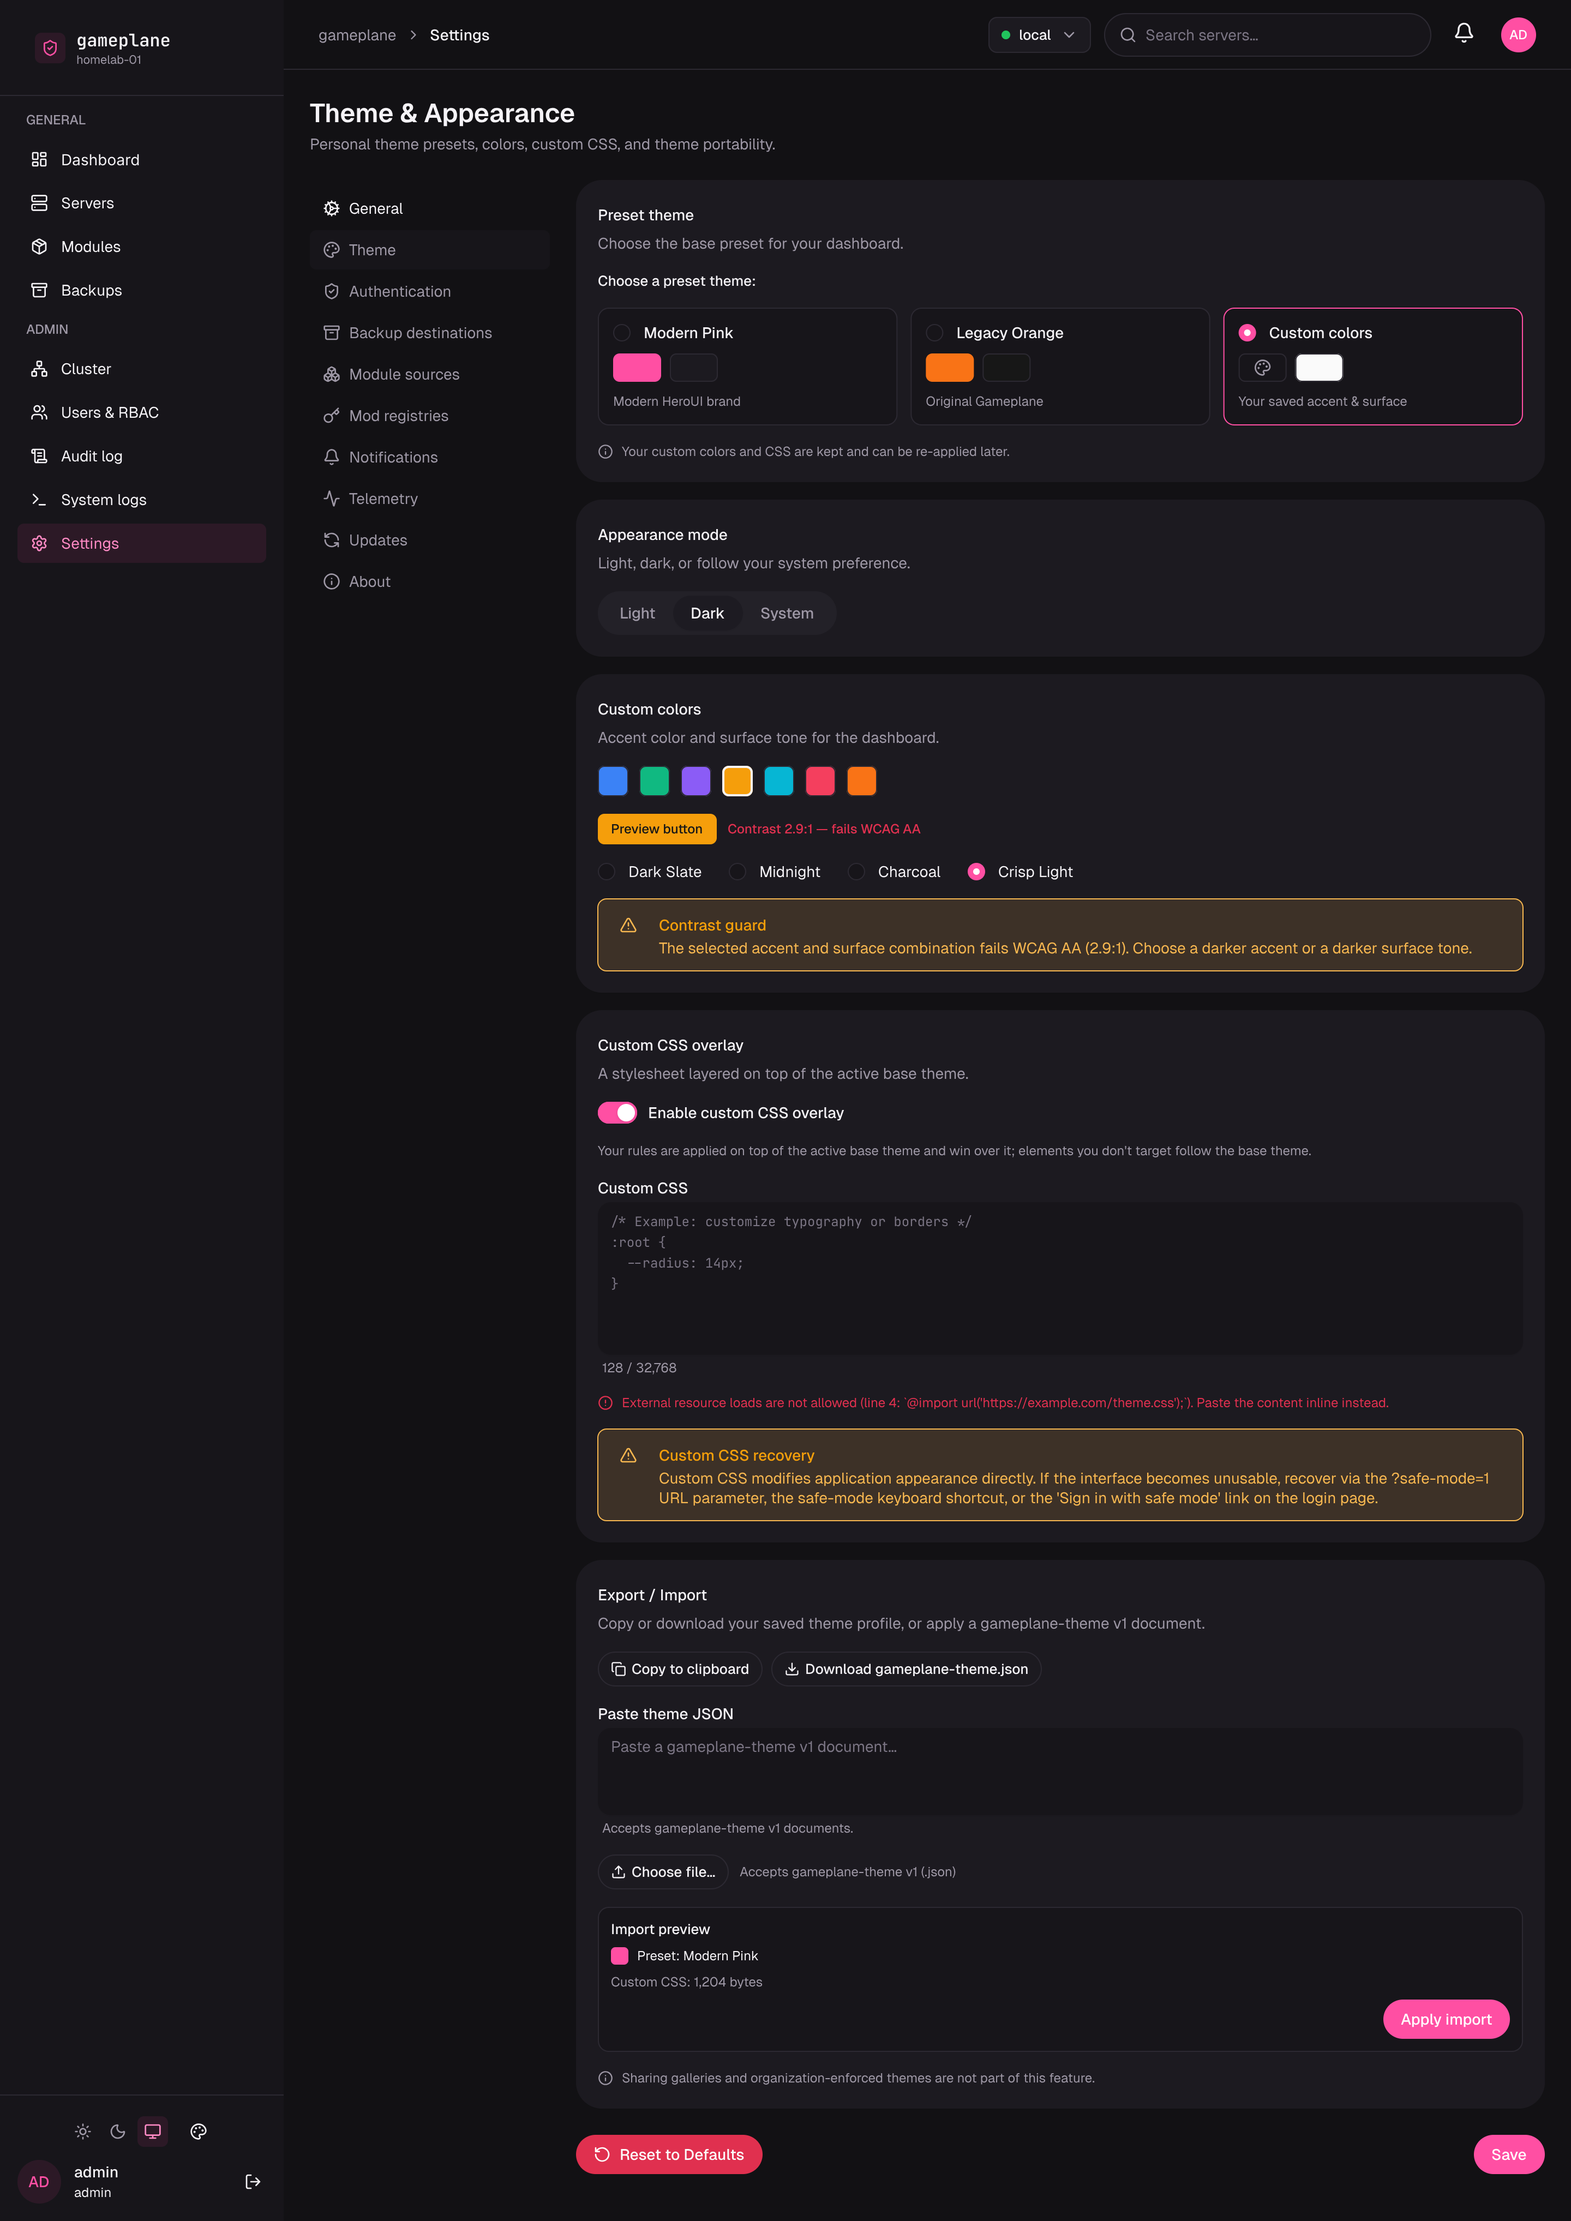
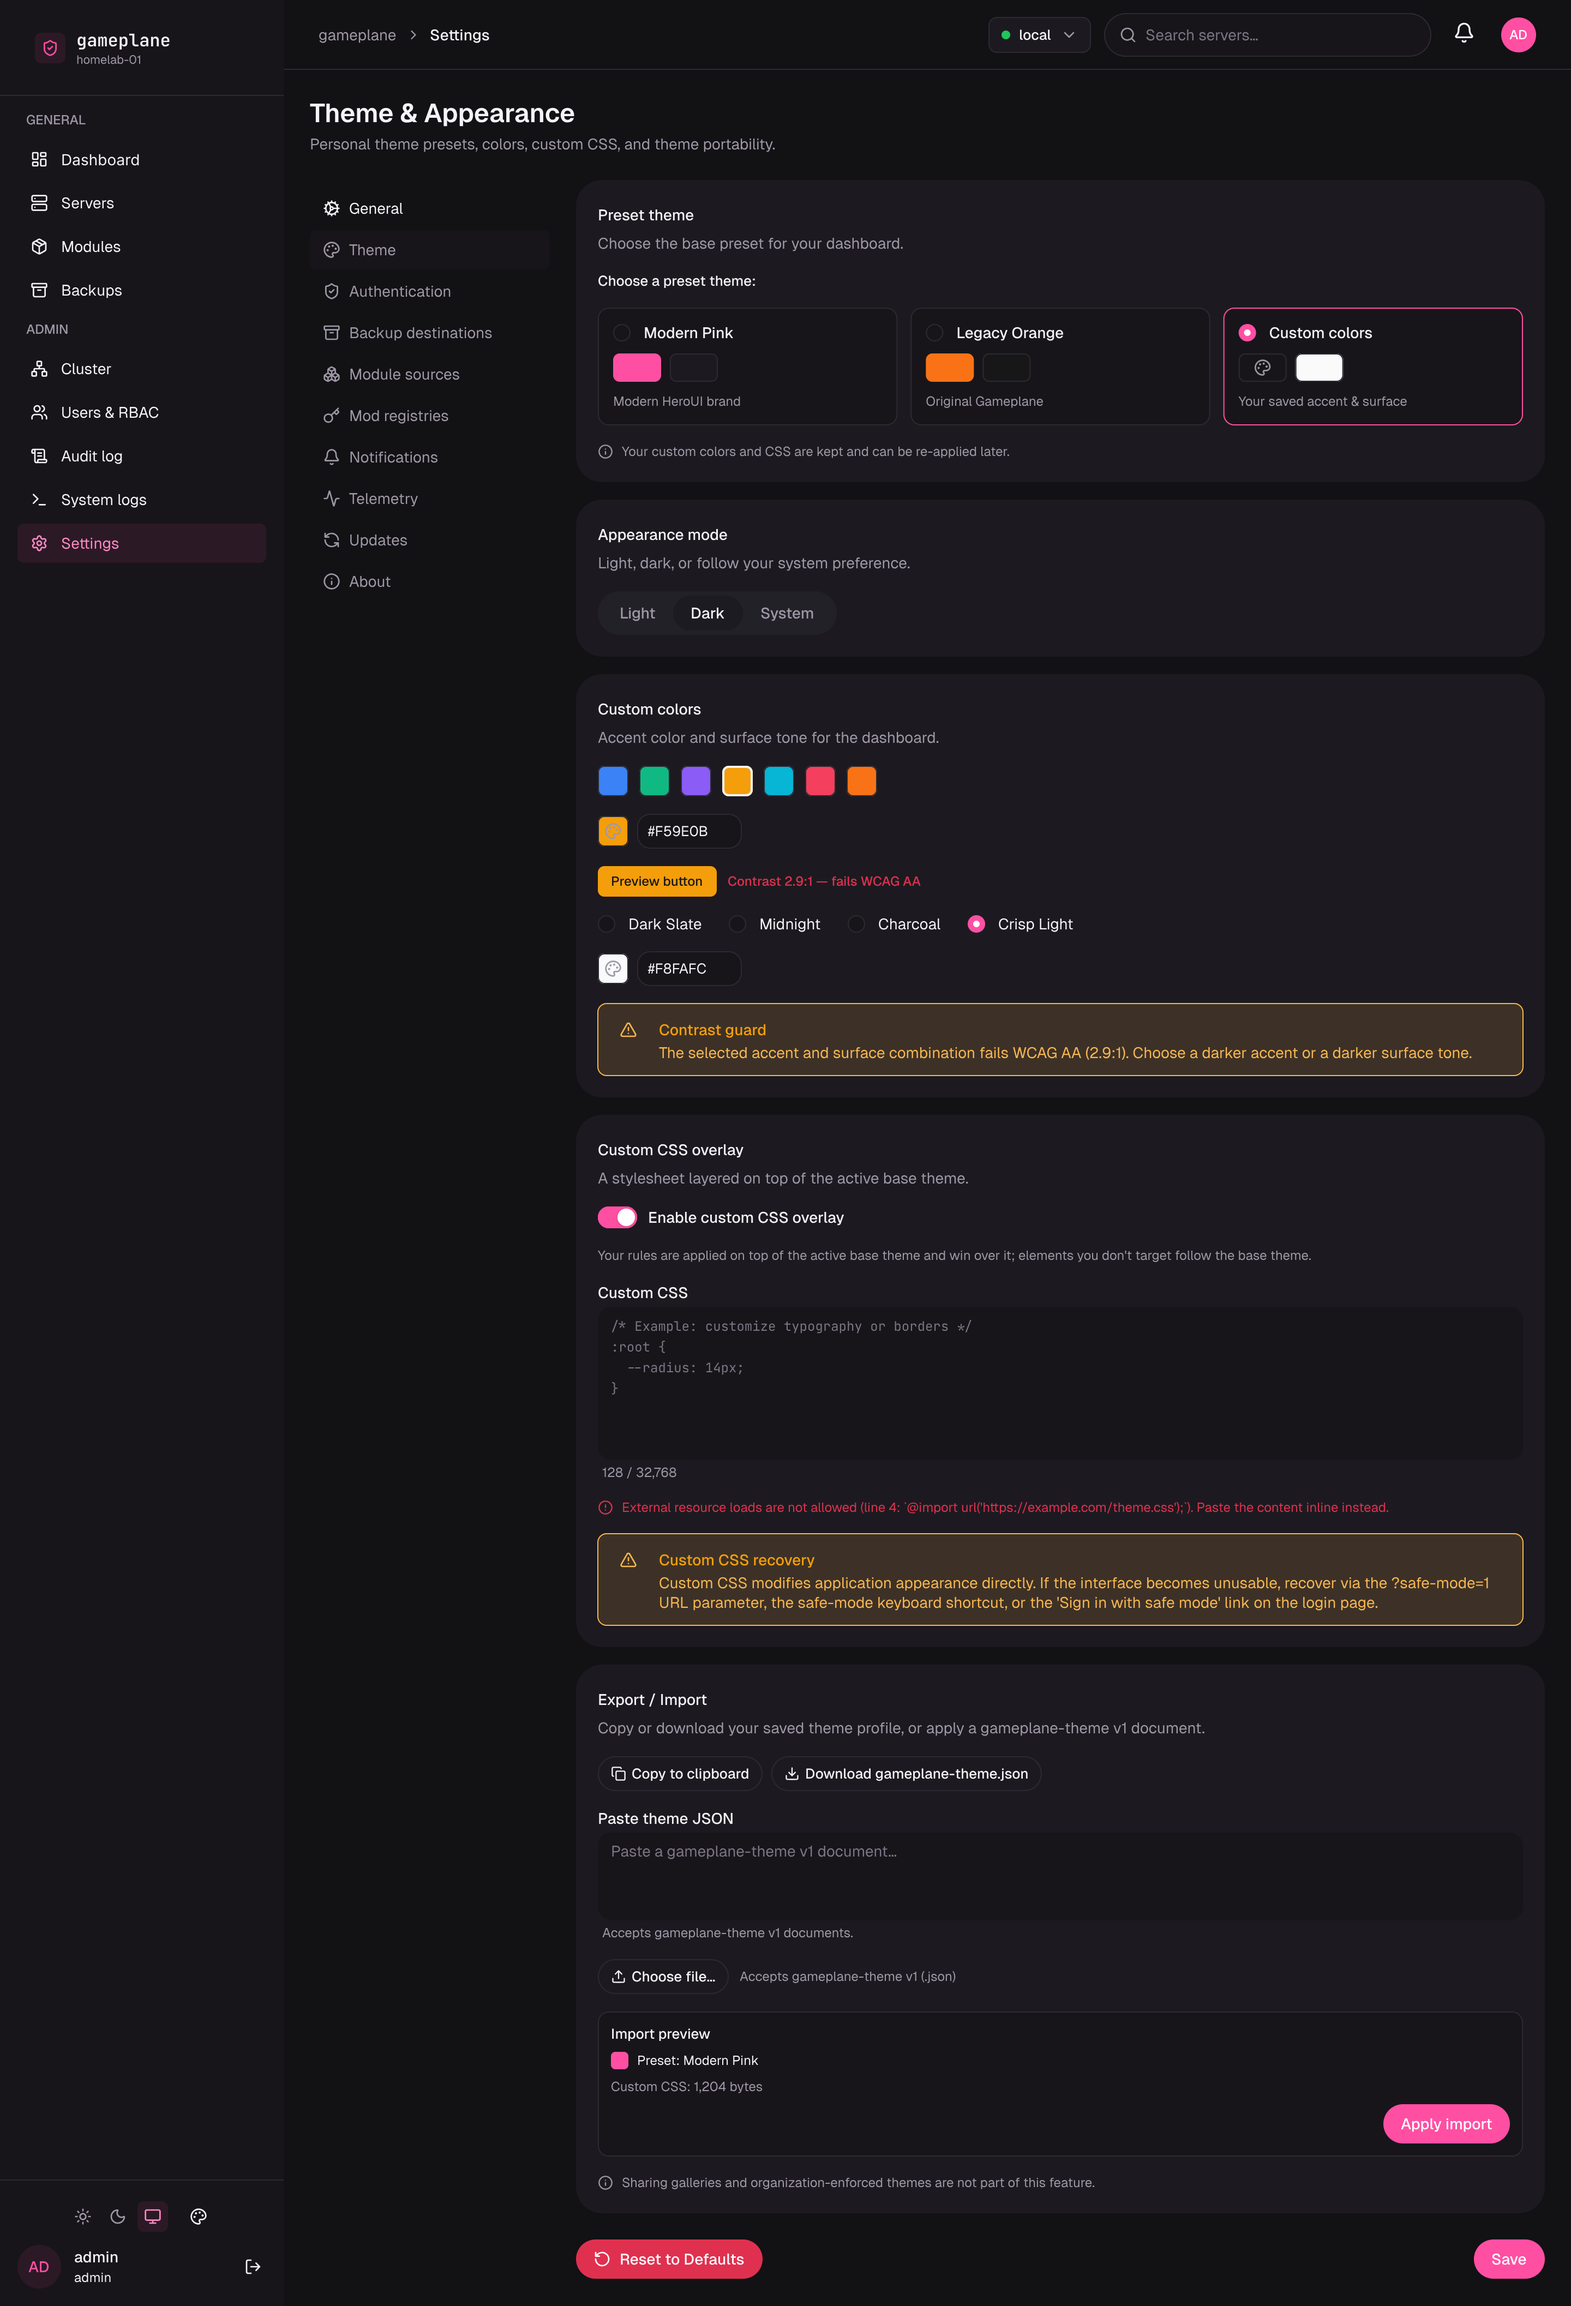
design(016): free color pickers on the Theme Settings screens
lWvcv and T1wkiT gain a color picker + #RRGGBB row under the accent
swatches and under the surface tones (contract §3.2, 2026-09-23 D2);
screen heights grow so the Reset/Save row stays visible. Exports and
MANIFEST updated.

Claude-Session: https://claude.ai/code/session_01NPwW1WBMHBYz6tFhAspqiF

diff --git a/design-export/MANIFEST.md b/design-export/MANIFEST.md
@@ -2216,3 +2216,52 @@ Contract §3.1/§3.2 were amended: the Preset theme card now has THREE radio car
 **Noticed but NOT touched (collaborative-document rule):** both screens' Top Bar breadcrumbs were replaced outside this pass with new 2-level frames (lWvcv `cOfsB`, T1wkiT `evCjB` — "gameplane › Settings"), dropping the contract's third crumb "Theme & Appearance". Left as found; flagged to the operator.
 
 **Validation:** `ctx.problems` sweeps (`resolveInstances: true`, ×2) — T1wkiT clean; lWvcv's only report is the intentionally hidden `b9v04` (`enabled:false` nodes report "fully clipped", same artifact class as prior disabled helpers). Screenshots verified: preset cards on both screens (correct selection states, no overflow), `p8cbrD` greyed without the red meta, `ffLVD` fully enabled with both alerts. Exports: `json/lWvcv.json` (17,598 B) + `json/T1wkiT.json` (18,528 B) verbatim depth-14 includePathGeometry, both `json.load`-valid, zero `"..."` elisions; greps — lWvcv "Custom colors" ×2 (radio card + section header), T1wkiT "fails WCAG AA" ×2 (preview meta + contrast-guard alert; the lWvcv JSON still contains the phrase once inside the hidden `b9v04` node). PNGs at 2x: `lWvcv.png` 881 KB (2880×3808), `T1wkiT.png` 972 KB (2880×4072). Only the two Feature-016 screens were modified; no git; the `.pen` was not saved and never accessed via shell.
+
+### Free color picker hex inputs (2026-09-23, D2 implementation, rewritten after clipping + value-consistency fix pass) — lWvcv + T1wkiT
+
+WP-design operand pair: insertions of ccAccentFreePicker and ccSurfaceFreePicker frames in both Theme Settings screens to support free hex color entry alongside the preset swatches and surface radios.
+
+**`lWvcv` (Custom colors INACTIVE, stored Accent #F59E0B "Amber" + Surface #F8FAFC "Crisp Light"):** two horizontal frames in `Y9YsS1` (Card Fields), both at `opacity: 0.5` (disabled, matching the section's other controls):
+1. **ccAccentFreePicker** (`iSgJ4`): a 28×28 rounded swatch frame with palette icon (`TZvv8`/`FcIIH`, fill `#F59E0B`) + ref to `qvQPg` (Gameplane/Input/Small, `ep9Jm`) width 96 showing hex text `"#F59E0B"`.
+2. **ccSurfaceFreePicker** (`w3wnz`): a 28×28 rounded swatch frame with palette icon (`pZ1gY`/`TtaGZ`, fill `#F8FAFC`) + ref to `qvQPg` (`UEuU5`) width 96 showing hex text `"#F8FAFC"`.
+
+Both values now match the screen's own preview chip (Amber `#F59E0B`, `SAvLR`) and the selected surface radio (Crisp Light `#F8FAFC`, `X4VnPS`) — the placeholder values #3B82F6 / #1E293B from the initial insertion were corrected to the stored Amber/Crisp Light values. The Amber preset swatch `wEV1E` in `PFzKl` now also carries the same selected-stroke treatment T1wkiT uses (`stroke: $foreground/foreground`, `strokeWidth: 2`, vs the default `$border/border` 1px on the other six swatches).
+
+**`T1wkiT` (Custom colors ACTIVE, Accent #F59E0B + Surface #F8FAFC):** identical structure in `u3VzxL` (Card Fields), full opacity (no 0.5):
+1. **ccAccentFreePicker** (`jCPmK`): 28×28 rounded swatch frame with palette icon (`SLXhL`/`a7NBc`, fill `#F59E0B`) + `qvQPg` ref (`c1Alx`) hex text `"#F59E0B"`.
+2. **ccSurfaceFreePicker** (`Viurq`): 28×28 rounded swatch frame with palette icon (`q1CZim`/`L547qD`, fill `#F8FAFC`) + `qvQPg` ref (`gxx0X`) hex text `"#F8FAFC"`.
+
+T1wkiT's values were already correct; unchanged in this pass except for the hex-text color fix below.
+
+**Hex input text color fix (both screens, all 4 inputs — `ep9Jm`, `UEuU5`, `c1Alx`, `gxx0X`):** the `qvQPg` component's `inputValue` text (`tK3VZ`) defaults to `fill: $field/placeholder`, so a content override alone still rendered as placeholder-grey. Added a `fill: $foreground/foreground` descendant override alongside each `content` override — the token used by the majority of filled (non-placeholder) inputs elsewhere in the document (e.g. the login screen's entered username `D1O4P` and password `aCGwF`, `i12U8`). All four hex values now read as entered text, not placeholder text.
+
+**Structural notes (unchanged from original D2 pass):**
+- Each free-picker frame uses the existing `qvQPg` component (Gameplane/Input/Small, 250×32) via ref with a width override to 96 and an `inputValue` descendant content override.
+- Swatch containers are 28×28 rounded frames (cornerRadius 6, stroke `$border/border`) with a centered 16×16 palette icon (`"palette"` lucide, weight 400, fill `$muted`) — matching the existing `tsCardCustom` swatch styling at `Q0uesI` (lWvcv) / `wHCI4` (T1wkiT).
+- Surface tone rows (`nG8Kx` / `ez9A7`) are horizontal layout (gap 24) — unchanged.
+- Both screens' Top Bar breadcrumbs are 2-level `"gameplane › Settings"` — unchanged.
+
+**Final child order — `Y9YsS1` (lWvcv Card Custom Colors → Card Fields):**
+1. `PFzKl` — ccSwatches (accent swatch row)
+2. `iSgJ4` — ccAccentFreePicker
+3. `JGzsZ` — ccPreviewRow
+4. `nG8Kx` — ccSurfaceRow (surface-tone row)
+5. `w3wnz` — ccSurfaceFreePicker
+
+**Final child order — `u3VzxL` (T1wkiT Card Custom Colors → Card Fields):**
+1. `GpVGU` — ccSwatches (accent swatch row)
+2. `jCPmK` — ccAccentFreePicker
+3. `R8x9R` — ccPreviewRow
+4. `ez9A7` — ccSurfaceRow (surface-tone row)
+5. `Viurq` — ccSurfaceFreePicker
+6. `O8yQoQ` — ccContrastWarning (contrast-guard warning, unchanged position after the surface picker)
+
+**Clipping fix (screen heights):** the two free-picker rows added by the D2 pass grew each screen's auto-sized `Content Column` (`A1pd4` / `F5MnIY`, vertical-layout, no explicit height) past the fixed, `clip: true` screen frame's height, clipping the bottom `tsActionsRow` (Reset to Defaults / Save, `k1qKk` / `pqHRF`) and partially clipping the content column itself. `Body`/`Settings Layout` on both screens are `fill_container` (no independent fixed height to adjust — they simply inherit whatever the screen allows), so the fix is at the screen root only:
+- `lWvcv`: `height` `1904` → **`2000`** (content column settles at 1810; 64 top bar + 24 + 53 header + 24 + 1810 column + 24 bottom margin ≈ 1999).
+- `T1wkiT`: `height` `2036` → **`2114`** (content column settles at 1924; same margin arithmetic ≈ 2113).
+
+**Real `ctx.problems` sweep (`resolveInstances: true`) after all fixes, run separately per screen (root frame down):**
+- `lWvcv`: **one** report — `b9v04` (`ccPreviewMeta`, "Contrast 2.9:1 — fails WCAG AA") "fully clipped", which is expected and correct: the node is `enabled: false` (intentionally hidden, contrast warning only applies to the active/T1wkiT state) and a disabled/zero-area node reporting as clipped is the established artifact class for hidden helpers in this document (same pattern noted in the 2026-09-22 third-pass entry above). No other node on either screen reports `partially clipped` or `fully clipped` — the `Content Column` / `tsActionsRow` clipping is gone on both.
+- `T1wkiT`: **zero** reports — fully clean.
+
+**Exports (this pass):** `json/lWvcv.json` (18,943 B) and `json/T1wkiT.json` (19,839 B), `Get(id, {depth: 12})` (zero `"..."` elisions confirmed by string search), both `python3 -m json.tool`-valid; greps confirm `ccAccentFreePicker` ×1 and `ccSurfaceFreePicker` ×1 in each file, and `"Contrast 2.9:1"` present in both (visible/active in T1wkiT, present-but-hidden in lWvcv's `b9v04`). PNGs re-exported via `export_nodes` at 2x scale: `screenshots/lWvcv.png` **2880×4000** (907 KB) and `screenshots/T1wkiT.png` **2880×4228** (998 KB) — both `2×` the corrected screen heights (2000/2114), confirmed via PNG IHDR dimensions, not estimated. Screenshots visually verified: both screens show the full `tsActionsRow` (Reset to Defaults / Save) with normal bottom padding, no overflow; the Custom Colors card shows the 7 preset swatches (Amber ring-highlighted) and the two free-picker 28×28 palette-icon swatches (Amber accent, Crisp Light surface), and legible (non-grey) hex text `#F59E0B` / `#F8FAFC` in all four inputs. All access via Pencil MCP; `.pen` file not read/edited via shell; no git commands run — the human saves the `.pen` file via the Pencil GUI after this session.
